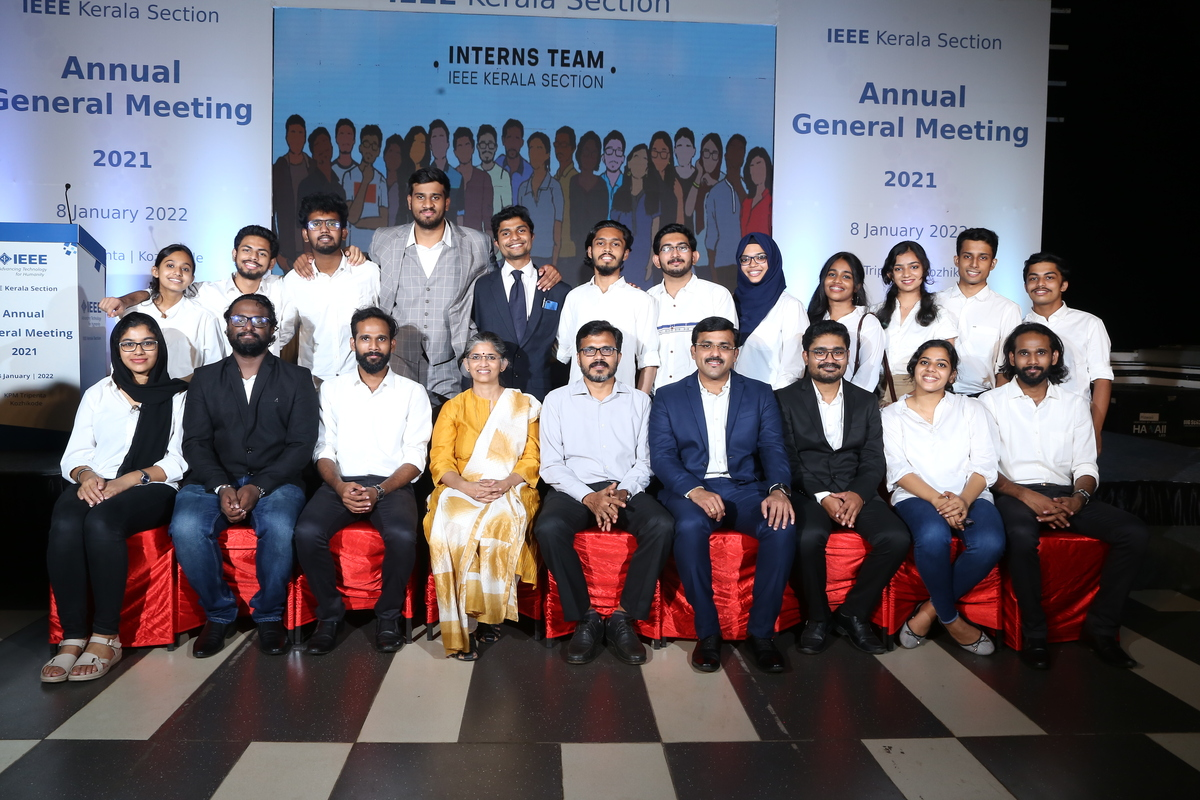
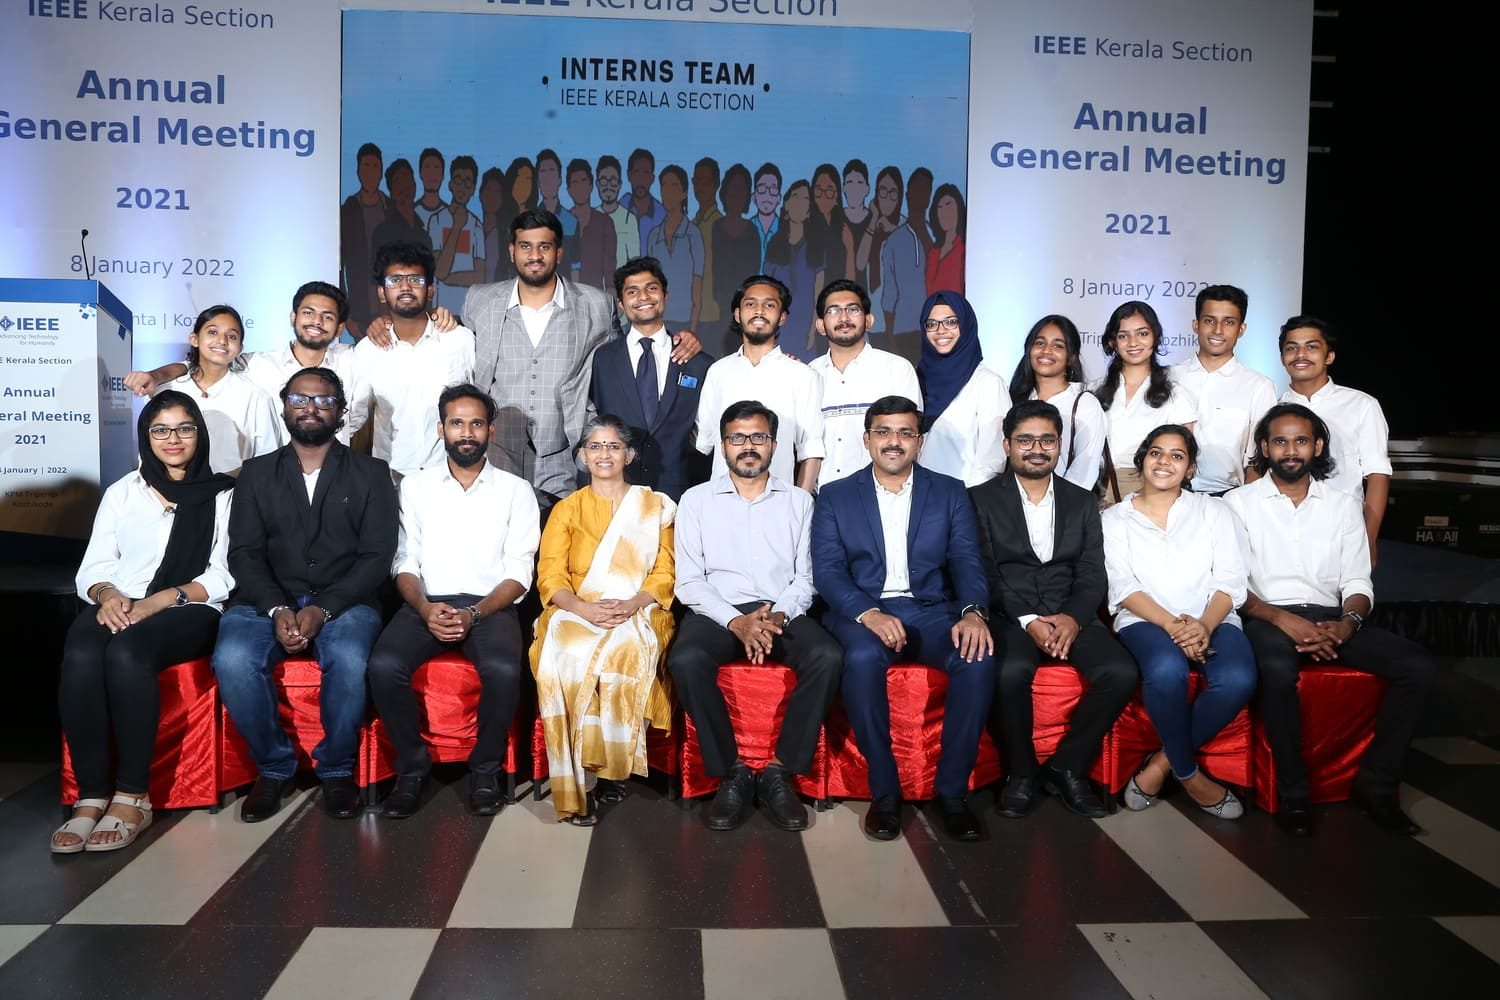
compress imgs

diff --git a/index.html b/index.html
@@ -160,7 +160,7 @@
         <div class="container">
           <div class="row">
             <div class="col-lg-5 my-auto" data-aos="zoom-in">
-              <img src="assets/img/agm.jpg" class="img-fluid" alt="" />
+              <img src="assets/img/carousel/agm.jpg" class="img-fluid" alt="" />
             </div>
             <div
               class="col-lg-7 d-flex flex-column justify-contents-center"
@@ -216,7 +216,7 @@
             </p>
           </div>
 
-          <div class="text-center">
+          <div class="text-center" data-aos="zoom-in">
             <img src="assets/img/mga.png" alt="" />
           </div>
         </div>
